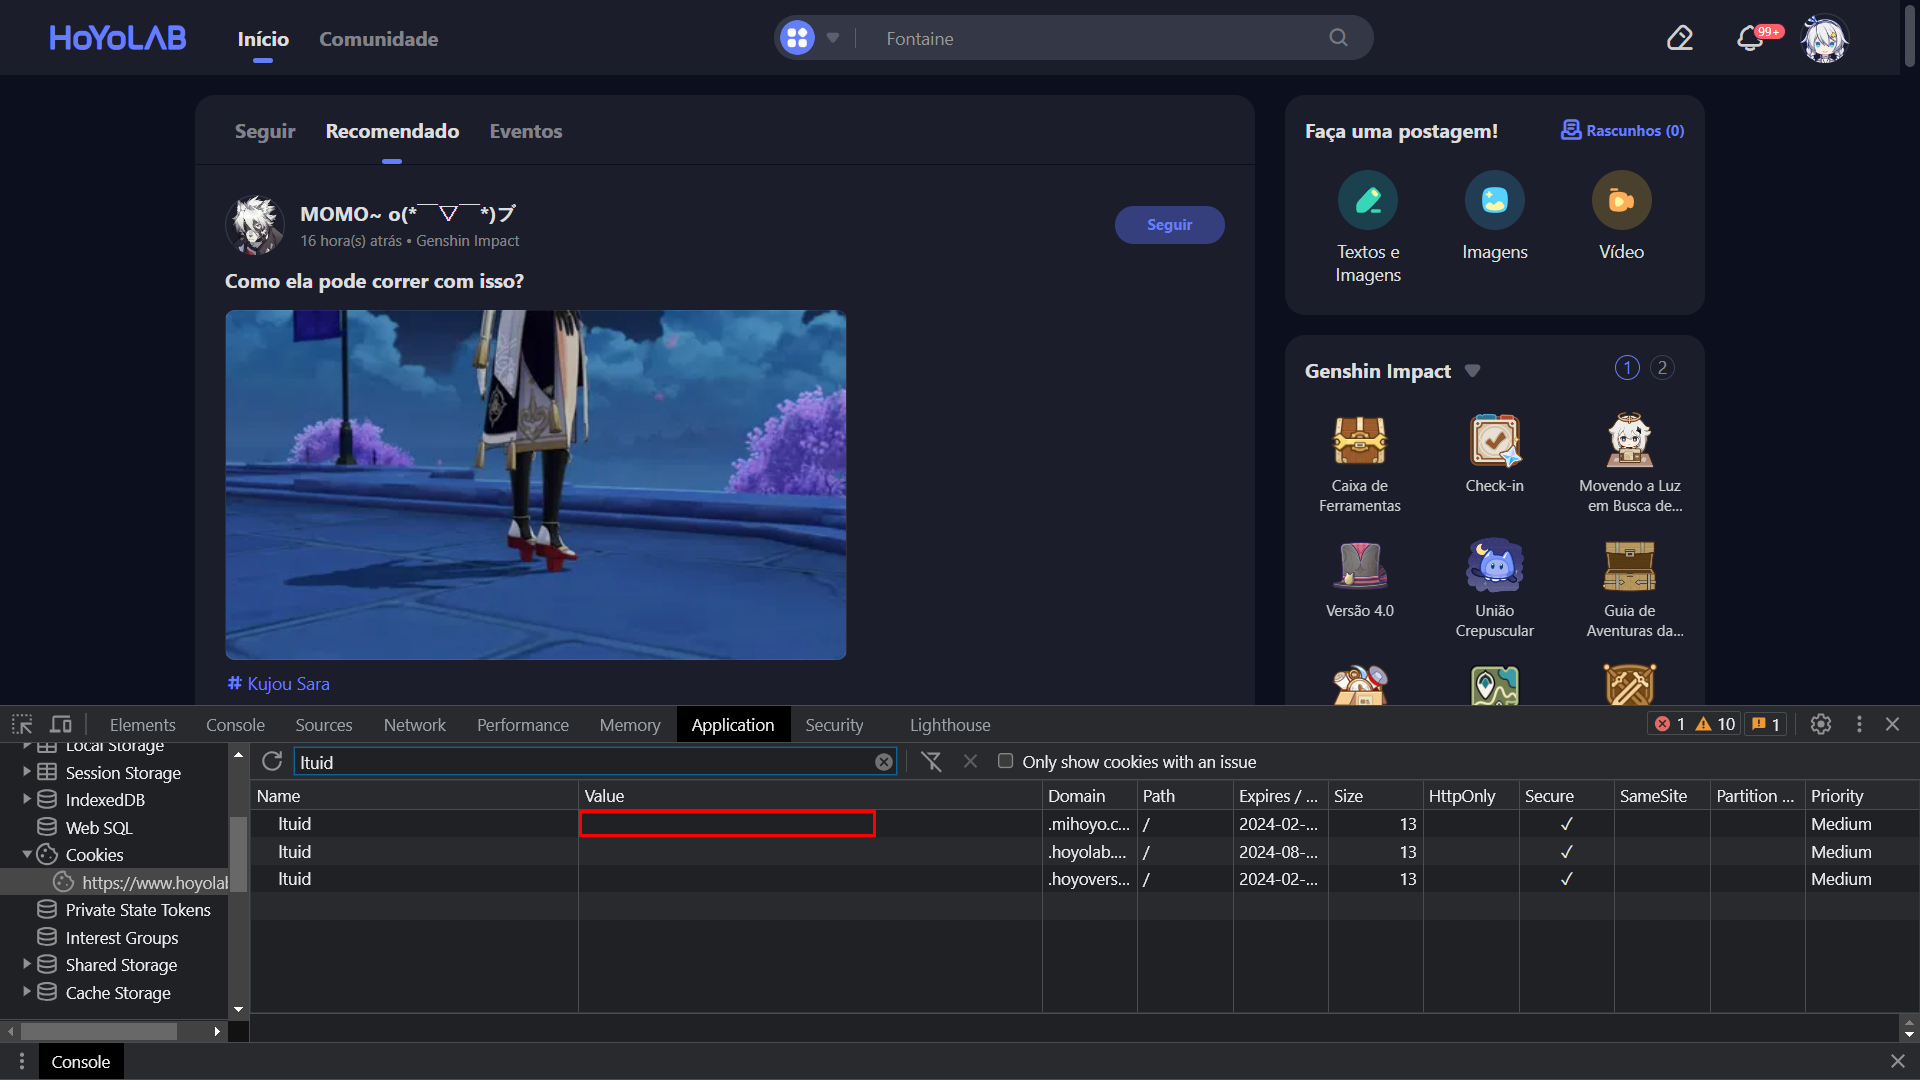
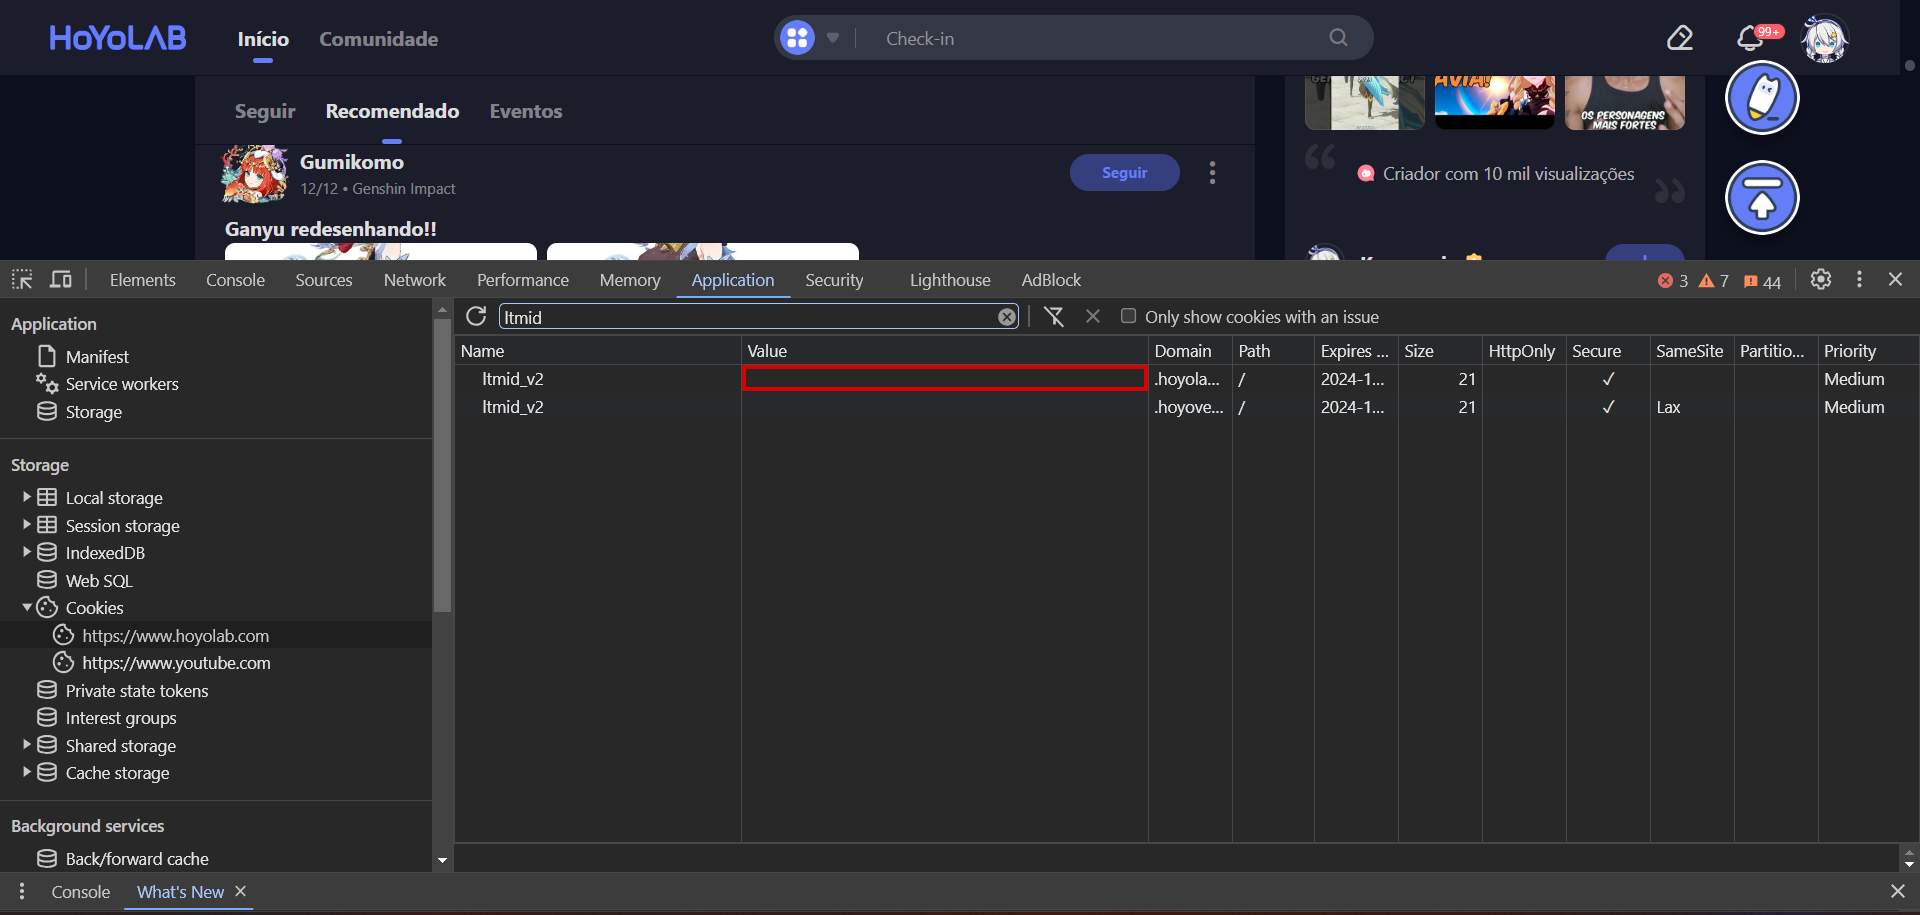
Removido registro por script por não funcionar mais + alterado para cookies v2

diff --git a/comandos/Registro.py b/comandos/Registro.py
@@ -25,7 +25,7 @@ class Registro(commands.Cog):
                 
         embed_escolha = disnake.Embed(
             title=f"Registro em {self.bot.user.display_name}",
-            description="Existem duas formas de se registrar. Clique no botão para selecionar o método que gostaria de usar.",
+            description="Clique no botão para selecionar o método que gostaria de usar.",
             colour=disnake.Colour.blue()
         )
 
@@ -41,8 +41,8 @@ class Registro(commands.Cog):
                                 title="Registro manual", 
                                 components=[
                                     disnake.ui.TextInput(label="UID da sua conta", style=disnake.TextInputStyle.short, placeholder="uid", custom_id="uid", min_length=9, max_length=9),
-                                    disnake.ui.TextInput(label="ltuid da HoyoLab", style=disnake.TextInputStyle.short, placeholder="ltuid", custom_id="ltuid"),
-                                    disnake.ui.TextInput(label="ltoken da HoyoLab", style=disnake.TextInputStyle.short, placeholder="ltoken", custom_id="ltoken")
+                                    disnake.ui.TextInput(label="ltmid_v2 da HoyoLab", style=disnake.TextInputStyle.short, placeholder="ltmid", custom_id="ltmid_v2"),
+                                    disnake.ui.TextInput(label="ltoken_v2 da HoyoLab", style=disnake.TextInputStyle.short, placeholder="ltoken", custom_id="ltoken_v2")
                                     ]
                                 )
                         
@@ -82,57 +82,57 @@ class Registro(commands.Cog):
 
                 await inter_comando.edit_original_message(embed=embed_registro, view=view_registro)
                 
-            @disnake.ui.button(label="Script", emoji="\U0000270D", style=disnake.ButtonStyle.blurple)
-            async def botao_escolha_script(self, button: disnake.ui.Button, botao_escolha_inter: disnake.MessageInteraction):
-                await botao_escolha_inter.response.defer()
+            # @disnake.ui.button(label="Script", emoji="\U0000270D", style=disnake.ButtonStyle.blurple)
+            # async def botao_escolha_script(self, button: disnake.ui.Button, botao_escolha_inter: disnake.MessageInteraction):
+            #     await botao_escolha_inter.response.defer()
                 
-                class RegistroScriptView(disnake.ui.View):
-                    class RegistroScriptModal(disnake.ui.Modal):
-                        def __init__(self):
-                            super().__init__(
-                                title="Registro por script", 
-                                components=[
-                                    disnake.ui.TextInput(label="UID da sua conta", style=disnake.TextInputStyle.short, placeholder="uid", custom_id="uid", min_length=9, max_length=9),
-                                    disnake.ui.TextInput(label="Cookies copiados", style=disnake.TextInputStyle.short, placeholder="Cookies", custom_id="cookies")
-                                    ]
-                                )
+            #     class RegistroScriptView(disnake.ui.View):
+            #         class RegistroScriptModal(disnake.ui.Modal):
+            #             def __init__(self):
+            #                 super().__init__(
+            #                     title="Registro por script", 
+            #                     components=[
+            #                         disnake.ui.TextInput(label="UID da sua conta", style=disnake.TextInputStyle.short, placeholder="uid", custom_id="uid", min_length=9, max_length=9),
+            #                         disnake.ui.TextInput(label="Cookies copiados", style=disnake.TextInputStyle.short, placeholder="Cookies", custom_id="cookies")
+            #                         ]
+            #                     )
 
-                        async def callback(self, inter : disnake.ModalInteraction):
-                            await inter.response.defer(ephemeral=True)
+            #             async def callback(self, inter : disnake.ModalInteraction):
+            #                 await inter.response.defer(ephemeral=True)
 
-                            cookies : dict = eval(inter.text_values["cookies"])
-                            uid = int(inter.text_values["uid"])
-                            cookies["uid"] = uid
-                            valido = await GenshinServico.checar_usuario_valido(cookies, uid)
+            #                 cookies : dict = eval(inter.text_values["cookies"])
+            #                 uid = int(inter.text_values["uid"])
+            #                 cookies["uid"] = uid
+            #                 valido = await GenshinServico.checar_usuario_valido(cookies, uid)
                             
-                            if valido:
-                                registrar(cookies, str(inter.user.id))
-                                await inter.edit_original_message("Registrado com sucesso!")
-                                await inter_comando.edit_original_message("Registrado!", embed=None, view=None)
-                            else:
-                                await inter.edit_original_message("Registro falhou. Verifique se as informações estão corretas. Caso o erro persista, contate o dono do bot.")
+            #                 if valido:
+            #                     registrar(cookies, str(inter.user.id))
+            #                     await inter.edit_original_message("Registrado com sucesso!")
+            #                     await inter_comando.edit_original_message("Registrado!", embed=None, view=None)
+            #                 else:
+            #                     await inter.edit_original_message("Registro falhou. Verifique se as informações estão corretas. Caso o erro persista, contate o dono do bot.")
 
-                    @disnake.ui.button(label="Voltar", style=disnake.ButtonStyle.red)
-                    async def botao_registro_script_voltar(self, button: disnake.ui.Button, botao_inter: disnake.MessageInteraction):
-                        await botao_inter.response.defer()
-                        view_escolha = RegistroEscolhaView()
-                        await inter_comando.edit_original_message(embed=embed_escolha, view=view_escolha)
+            #         @disnake.ui.button(label="Voltar", style=disnake.ButtonStyle.red)
+            #         async def botao_registro_script_voltar(self, button: disnake.ui.Button, botao_inter: disnake.MessageInteraction):
+            #             await botao_inter.response.defer()
+            #             view_escolha = RegistroEscolhaView()
+            #             await inter_comando.edit_original_message(embed=embed_escolha, view=view_escolha)
                         
-                    @disnake.ui.button(label="Registrar", style=disnake.ButtonStyle.green)
-                    async def botao_registro_script_registrar(self, button: disnake.ui.Button, botao_inter: disnake.MessageInteraction):
-                        modal = self.RegistroScriptModal()
-                        await inter_comando.edit_original_message(embed=embed_escolha, view=view_escolha)
-                        await botao_inter.response.send_modal(modal)
+            #         @disnake.ui.button(label="Registrar", style=disnake.ButtonStyle.green)
+            #         async def botao_registro_script_registrar(self, button: disnake.ui.Button, botao_inter: disnake.MessageInteraction):
+            #             modal = self.RegistroScriptModal()
+            #             await inter_comando.edit_original_message(embed=embed_escolha, view=view_escolha)
+            #             await botao_inter.response.send_modal(modal)
                 
-                view_registro = RegistroScriptView()
-                embed_registro = disnake.Embed(
-                    title="Registro por Script",
-                    description="Para se registrar pelo método script, você terá que copiar o script abaixo, então acessar o site da [Hoyolab](https://www.hoyolab.com) e assim que a página carregar, escreva 'java' na barra de URL do navegador e então cole o script . Depois que aparecer a mensagem de sucesso, volte e cole os cookies que foram copiados.",
-                    colour=disnake.Colour.blue()
-                )
-                embed_registro.add_field(name="Script", value=r"```script:var inputElement = document.createElement('input'); var cookies = document.cookie.split('; ').reduce((prev, current) => { const [name, ...value] = current.split('='); prev[name] = value.join('='); return prev; }, {}); inputElement.value = `{'ltoken_v2':'${cookies.ltoken_v2}', 'ltmid_v2':'${cookies.ltmid_v2}'}`; document.body.appendChild(inputElement); inputElement.select(); document.execCommand('copy'); document.body.removeChild(inputElement); alert('Copiado com sucesso!');```")
+            #     view_registro = RegistroScriptView()
+            #     embed_registro = disnake.Embed(
+            #         title="Registro por Script",
+            #         description="Para se registrar pelo método script, você terá que copiar o script abaixo, então acessar o site da [Hoyolab](https://www.hoyolab.com) e assim que a página carregar, escreva 'java' na barra de URL do navegador e então cole o script . Depois que aparecer a mensagem de sucesso, volte e cole os cookies que foram copiados.",
+            #         colour=disnake.Colour.blue()
+            #     )
+            #     embed_registro.add_field(name="Script", value=r"```script:var inputElement = document.createElement('input'); var cookies = document.cookie.split('; ').reduce((prev, current) => { const [name, ...value] = current.split('='); prev[name] = value.join('='); return prev; }, {}); inputElement.value = `{'ltoken_v2':'${cookies.ltoken_v2}', 'ltmid_v2':'${cookies.ltmid_v2}'}`; document.body.appendChild(inputElement); inputElement.select(); document.execCommand('copy'); document.body.removeChild(inputElement); alert('Copiado com sucesso!');```")
 
-                await inter_comando.edit_original_message(embed=embed_registro, view=view_registro)
+            #     await inter_comando.edit_original_message(embed=embed_registro, view=view_registro)
 
         view_escolha = RegistroEscolhaView()
         

diff --git a/comandos/Ajuda.py b/comandos/Ajuda.py
@@ -54,8 +54,8 @@ class Ajuda(commands.Cog):
                 "Selecione a terceira imagem onde está escrito 'Dock side'",
                 "Vá para a aba 'Application' e procure por 'Cookies' e expanda-o",
                 "Clique na única opção que aparece (http://www.hoyolab.com)",
-                "Procure por 'ltuid' e copie onde está o 'value'",
-                "Depois procure por 'ltoken' e faça a mesma coisa",
+                "Procure por 'ltmid_v2' e copie onde está o 'value'",
+                "Depois procure por 'ltoken_v2' e faça a mesma coisa",
                 "Agora só é preciso pegar seu UID dentro do jogo e pronto! Você possui tudo para poder se registrar"
             ]
             self.imagem_paginas = [
@@ -65,8 +65,8 @@ class Ajuda(commands.Cog):
                 "https://cdn.discordapp.com/attachments/1056255419162574998/1147974483001491467/ajuda_registro_4.png",
                 "https://cdn.discordapp.com/attachments/1056255419162574998/1147974483420909679/ajuda_registro_5.png",
                 "https://cdn.discordapp.com/attachments/1056255419162574998/1147974483664187493/ajuda_registro_6.png",
-                "https://cdn.discordapp.com/attachments/1056255419162574998/1147974484012318760/ajuda_registro_7.png",
-                "https://cdn.discordapp.com/attachments/1056255419162574998/1147974481298591744/ajuda_registro_8.png",
+                "https://cdn.discordapp.com/attachments/1148014871875682415/1190837840293146795/ajuda_registro_7.png",
+                "https://cdn.discordapp.com/attachments/1148014871875682415/1190837839970193438/ajuda_registro_8.png",
                 "https://cdn.discordapp.com/attachments/1056255419162574998/1147974481722224750/ajuda_registro_9.png"
             ]
             self.atualizar_embed()
